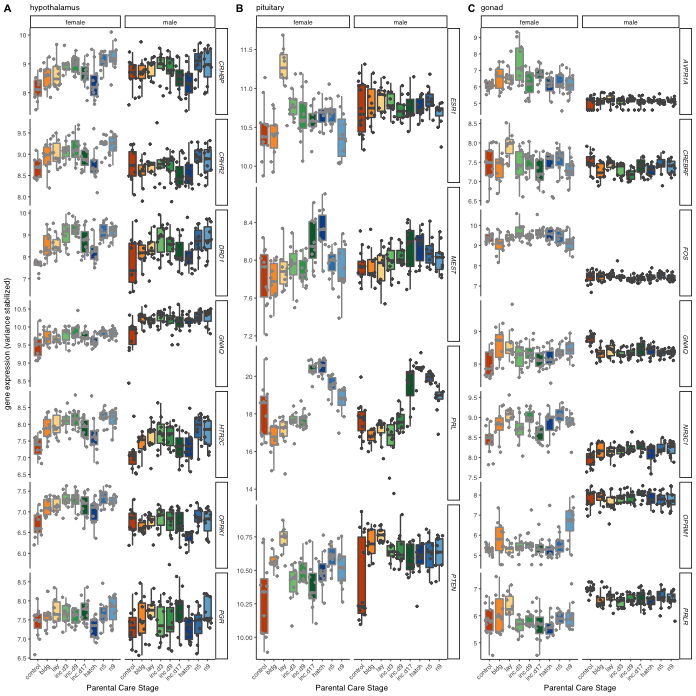
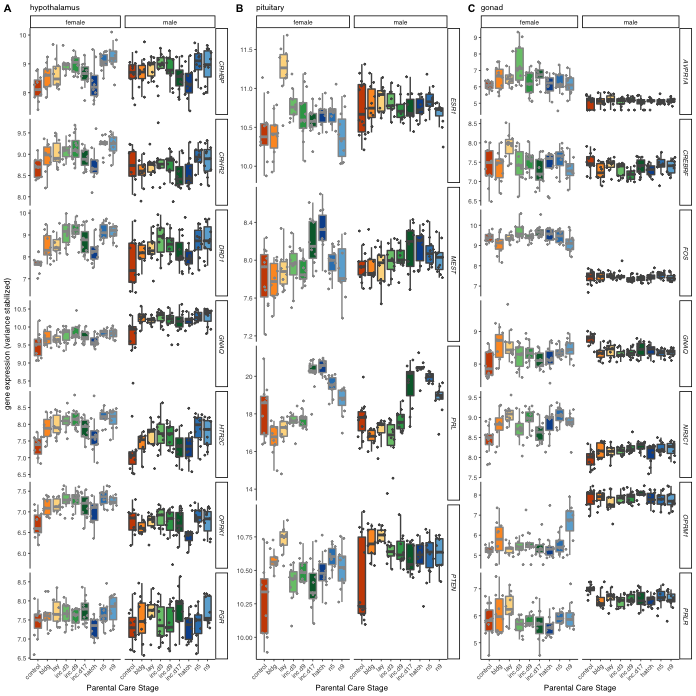
smaller points

diff --git a/analysis/figure-2.md b/analysis/figure-2.md
@@ -3,14 +3,14 @@ Candidate gene analysis
 
     library(tidyverse)
 
-    ## ── Attaching packages ────────────────────────────────────────────────────────────────────────────────── tidyverse 1.3.0 ──
+    ## ── Attaching packages ──────────────────────────────────────────────────── tidyverse 1.3.0 ──
 
     ## ✓ ggplot2 3.3.0.9000     ✓ purrr   0.3.3     
     ## ✓ tibble  2.1.3          ✓ dplyr   0.8.3     
     ## ✓ tidyr   1.0.0          ✓ stringr 1.4.0     
     ## ✓ readr   1.3.1          ✓ forcats 0.4.0
 
-    ## ── Conflicts ───────────────────────────────────────────────────────────────────────────────────── tidyverse_conflicts() ──
+    ## ── Conflicts ─────────────────────────────────────────────────────── tidyverse_conflicts() ──
     ## x dplyr::filter() masks stats::filter()
     ## x dplyr::lag()    masks stats::lag()
 
@@ -820,7 +820,7 @@ variance stabilized gene expression (vsd)
         ggplot(aes(x = treatmentNum, y = counts)) +
         geom_boxplot(aes(fill = treatment, color = sex), outlier.shape = NA) +
         #geom_smooth(aes(color = sex)) +
-        geom_jitter(size = 0.5, aes(color = sex)) +
+        geom_jitter(size = 0.25, aes(color = sex)) +
         facet_grid(gene~sex, scales = "free") +
         scale_x_continuous(breaks = c(1,2,3,4,5,6,7,8,9),
                            labels = charlevels) +
